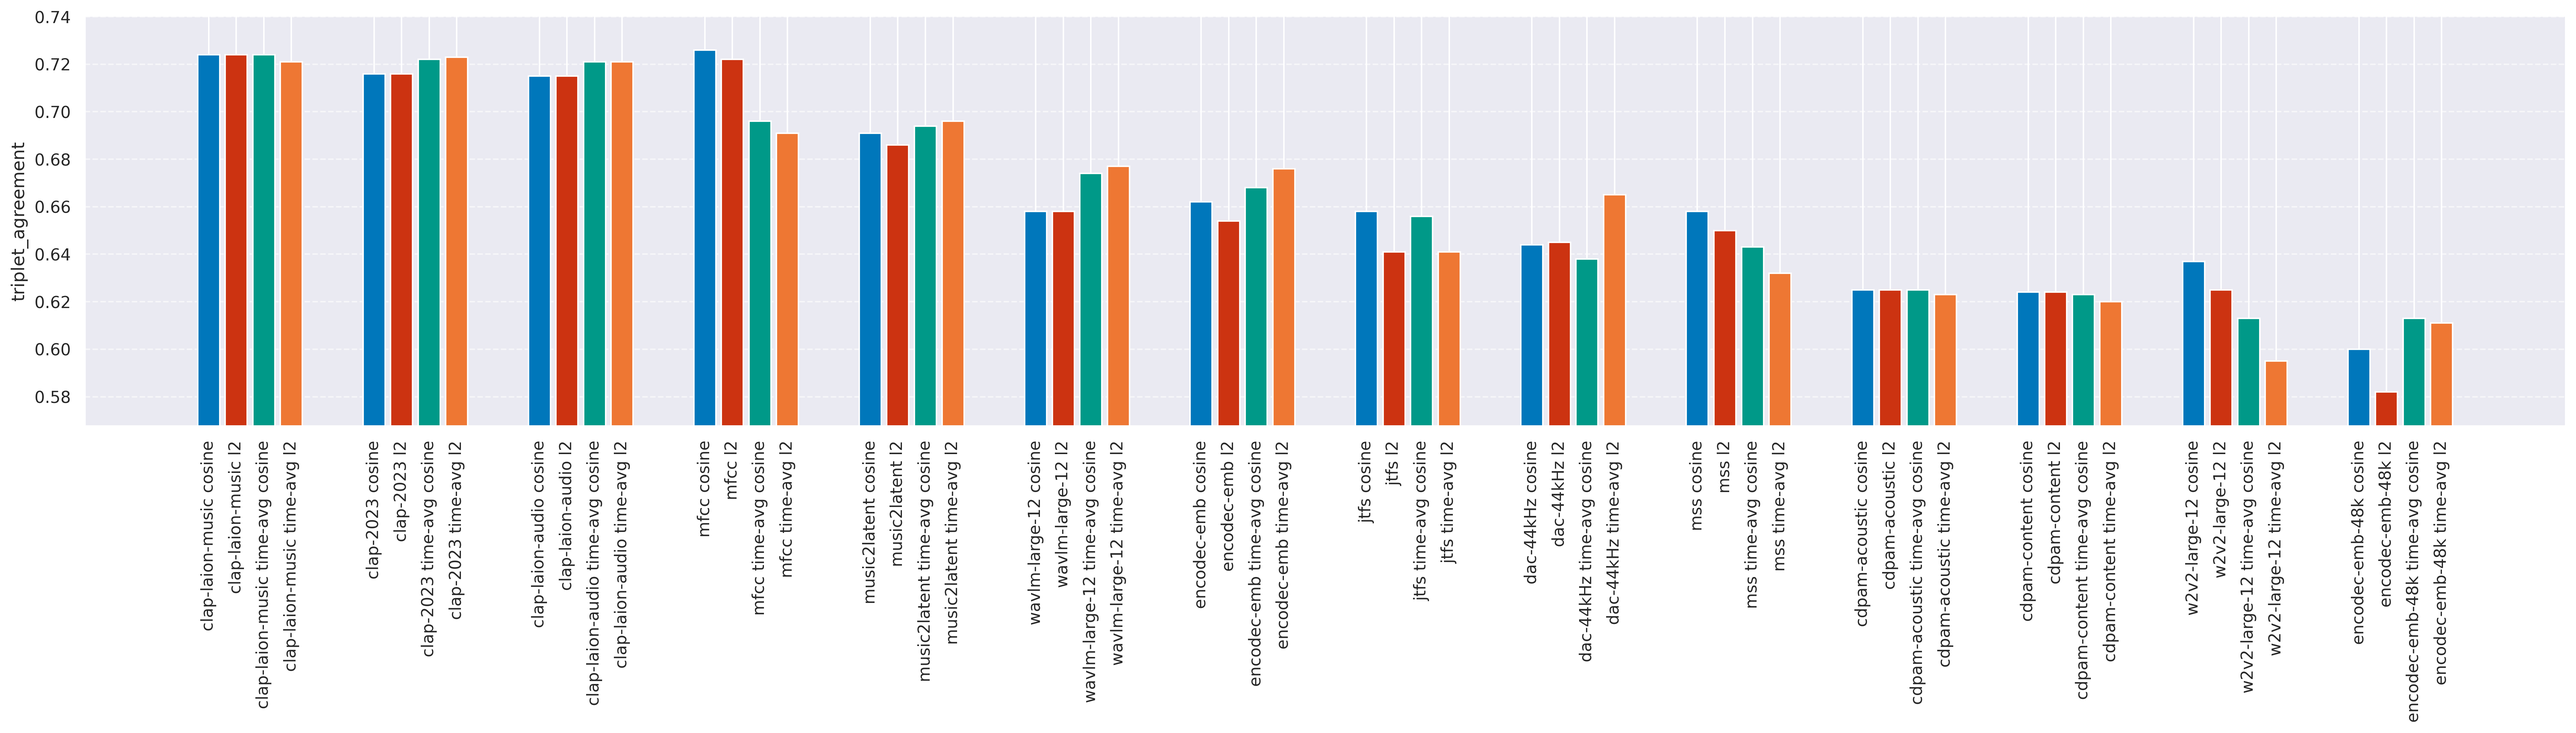
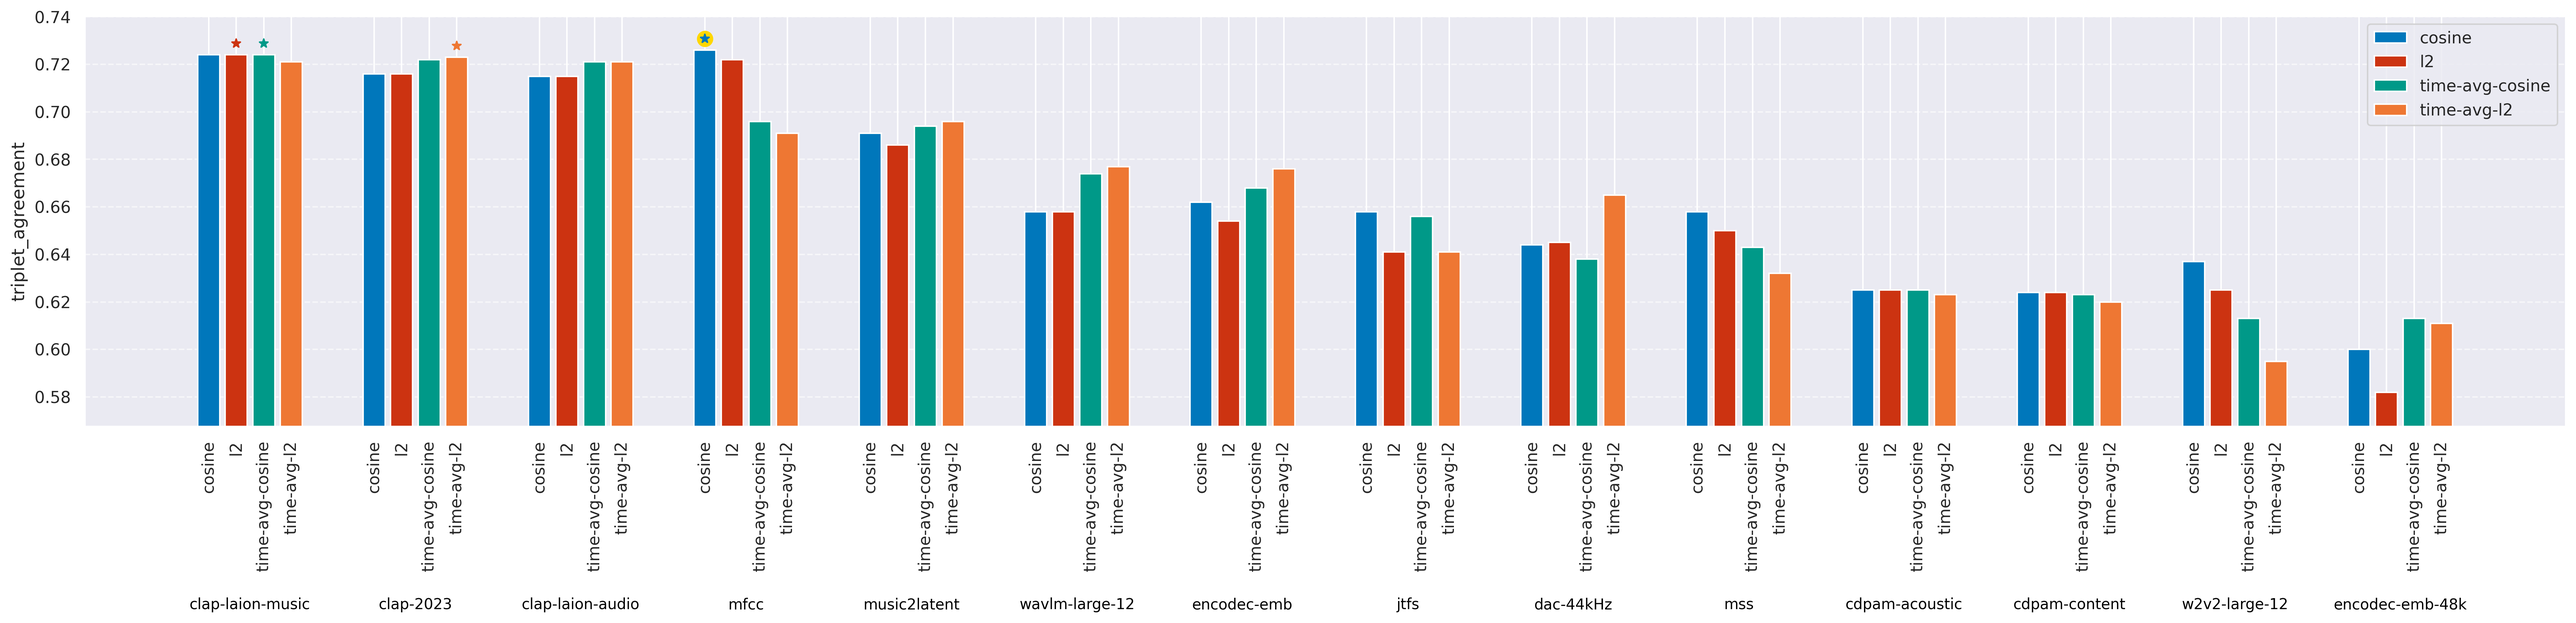
update plots

diff --git a/scripts/plot_leader_board.py b/scripts/plot_leader_board.py
@@ -29,7 +29,7 @@ for model, distance, metric, score in entries:
         metric_scores[metric].append((model, distance, score))
     else:
         assert len(splits) == 2
-        metric_scores[metric].append((splits[1], f"{splits[0]} {distance}", score))
+        metric_scores[metric].append((splits[1], f"{splits[0]}-{distance}", score))
 
 # Set style
 sns.set_theme(style="darkgrid")
@@ -55,7 +55,7 @@ for metric, scores in metric_scores.items():
     gap = 2  # Space between model groups
 
     for model in sorted_models:
-        # Sort the 4 types within the model by score (high to low)
+        # Sort the 4 configs within the model by string name
         sorted_types = sorted(model_groups[model], key=lambda x: x[0])
 
         x_range = list(range(current_x, current_x + len(sorted_types)))
@@ -75,6 +75,12 @@ for metric, scores in metric_scores.items():
 
     fig, ax = plt.subplots(figsize=(30, 5))
 
+    min_value = min(scores)
+    max_value = max(scores)
+    small_margin = 0.1 * (max_value - min_value)  # Small margin as 10% of the range
+
+    colors = ["#0077BB", "#CC3311", "#009988", "#EE7733"]
+
     # Plot each model separately, ensuring gaps between groups
     for model in sorted_models:
         x_range = model_x_ranges[model]
@@ -85,19 +91,66 @@ for metric, scores in metric_scores.items():
         ax.bar(
             x_range,
             y_values,
-            color=['#0077BB', '#CC3311', '#009988', '#EE7733'],
-            label=model,
+            color=colors,
+            label=[config for config, _ in sorted_types],
         )
 
+    best_indices = []
+    for i in range(4):
+        group_indices = [j for j in range(len(scores)) if j % 4 == i]
+        if metric == 'mae':
+            index = min(group_indices, key=lambda j: scores[j])
+        else:
+            index = max(group_indices, key=lambda j: scores[j])
+        best_indices.append(index)
+
+    # Get the best x and y values for each config
+    best_x = [x_positions[i] for i in best_indices]
+    best_y = [scores[i] for i in best_indices]
+
+    # Find the overall best index out of the four
+    if metric == 'mae':
+        overall_best_index = best_indices[best_y.index(min(best_y))]
+    else:
+        overall_best_index = best_indices[best_y.index(max(best_y))]
+
+    # Get the x and y for the overall best
+    overall_best_x = x_positions[overall_best_index]
+    overall_best_y = scores[overall_best_index]
+
+    # Plot the gold marker behind the original marker
+    ax.scatter(overall_best_x, overall_best_y + small_margin / 3, 
+            marker='o', color='gold', s=100)  # Larger size and lower z-order
+
+    # Plot the original markers
+    ax.scatter(best_x, [y + small_margin / 3 for y in best_y], 
+            marker='*', color=colors)
+
     ax.set_xticks(x_positions)
-    ax.set_xticklabels(keys, rotation=90)
+    ax.set_xticklabels([config.split(" ")[1] for config in keys], rotation=90)  # Rotate config labels
+
+    # Add model labels under the grouped config labels
+    for model, x_range in model_x_ranges.items():
+        # Calculate the center of the x_range for the model
+        model_center = sum(x_range) / len(x_range)
+        ax.text(
+            model_center,
+            min_value - small_margin*6,  # Position below the bars
+            model,  # Model name
+            ha="center",  # Center align
+            va="top",  # Align to the top of the text
+            fontsize=10,
+            color="black",
+        )
+
     ax.set_ylabel(metric)
     ax.yaxis.grid(True, linestyle="--", alpha=0.6)
 
-    min_value = min(scores)
-    max_value = max(scores)
-    small_margin = 0.1 * (max_value - min_value)  # Small margin as 10% of the range
     ax.set_ylim(min_value - small_margin, max_value + small_margin)
+
+    handles, labels = ax.get_legend_handles_labels()
+    unique_labels = dict(zip(labels, handles))  # Use a dictionary to remove duplicates
+    ax.legend(unique_labels.values(), unique_labels.keys(), loc="upper right")
 
     plt.savefig(
         os.path.join(os.path.dirname(BASE_DIR), f"assets/{metric}_eval.png"),
